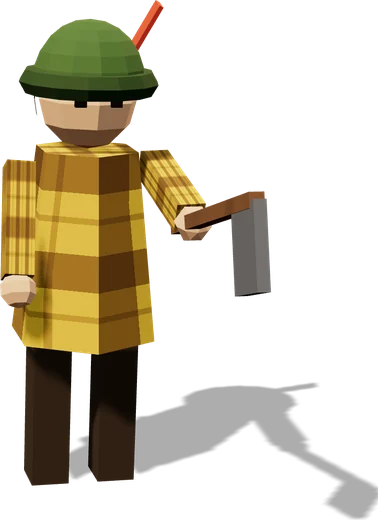
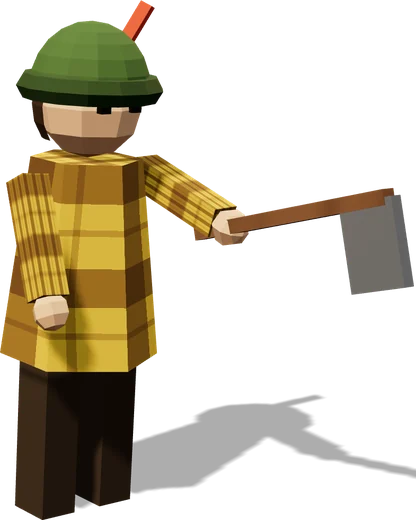
No inner line on the picture frames; woodcutter more side-on, figures on the line on Support and Privacy
Claude-Session: https://claude.ai/code/session_01KSdcztEkEeGoCTCNjYvWmU

diff --git a/style.css b/style.css
@@ -54,7 +54,6 @@ section { position: relative }
 .lede .wrap { position: relative }
 .lede p { margin: 0; max-width: 28em; font-size: clamp(21px, 2.5vw, 27px); line-height: 1.45; color: #f3ead4 }
 .frame { position: relative; border: 2px solid rgba(227, 191, 102, .7); border-radius: 14px; overflow: hidden; background: #000; box-shadow: 0 0 0 1px rgba(0, 0, 0, .6), 0 10px 34px rgba(0, 0, 0, .6) }
-.frame::after { content: ''; position: absolute; inset: 3px; border: 1px solid rgba(227, 191, 102, .22); border-radius: 11px; pointer-events: none }
 .frame img, .frame video { width: 100%; height: auto; display: block }
 .head { margin: 0 0 30px; font: clamp(30px, 4.2vw, 42px)/1.1 var(--title); color: var(--gold); text-align: center }
 .head::after { content: ''; display: block; width: 140px; height: 2px; margin: 16px auto 0; background: linear-gradient(90deg, transparent, var(--gold), transparent) }
@@ -174,8 +173,8 @@ footer .tm { flex-basis: 100%; margin-top: 8px; font-size: 13px; opacity: .7 }
 .page { padding-bottom: 0 }
 .duel { display: flex; justify-content: space-between; align-items: flex-end; max-width: 720px; margin-top: 64px; position: relative }
 .duel::after { content: ''; position: absolute; left: -10%; right: -10%; bottom: 0; height: 22px; background: radial-gradient(ellipse at 50% 100%, rgba(80, 120, 50, .3), transparent 70%) }
-.duel img { height: 140px; width: auto; filter: drop-shadow(0 6px 10px rgba(0, 0, 0, .6)) }
-@media (max-width: 560px) { .duel img { height: 100px } }
+.duel img { --k: 140px; height: calc(var(--k) / (1 - var(--b, 0))); width: auto; margin-bottom: calc(var(--b, 0) * var(--k) / (1 - var(--b, 0)) * -1); filter: drop-shadow(0 6px 10px rgba(0, 0, 0, .6)) }
+@media (max-width: 560px) { .duel img { --k: 100px } }
 /* the town's figures stand apart, the raiders bunch up: the spearman a little over the horseman, the horseman well over the ballista (Jack) */
 .army .town img { margin-left: calc(var(--k) * .04); margin-right: calc(var(--k) * .04) }
 .army .foe img { margin-left: 0; margin-right: 0 }

diff --git a/support.html b/support.html
@@ -9,7 +9,7 @@
 <meta name="theme-color" content="#100e0a">
 <link rel="icon" href="/img/icon-64.png">
 <link rel="apple-touch-icon" href="/img/icon-180.png">
-<link rel="stylesheet" href="/style.css?v=5">
+<link rel="stylesheet" href="/style.css?v=6">
 </head>
 <body class="plain">
 <header class="top"><div class="wrap">
@@ -36,7 +36,7 @@
     <details><summary>How do I get a refund?</summary><p>Refunds are handled by Apple at <a href="https://reportaproblem.apple.com">reportaproblem.apple.com</a>.</p></details>
   </div>
 </div>
-<div class="wrap duel" aria-hidden="true"><img src="/img/fig/farmer.webp?v=4" alt="" loading="lazy"><img src="/img/fig/raider_sword.webp?v=4" alt="" loading="lazy"></div>
+<div class="wrap duel" aria-hidden="true"><img src="/img/fig/farmer.webp?v=6" alt="" loading="lazy" style="--b:0.029"><img src="/img/fig/raider_sword.webp?v=6" alt="" loading="lazy" style="--b:0.038"></div>
 </main>
 
 <footer><div class="wrap">

diff --git a/privacy.html b/privacy.html
@@ -9,7 +9,7 @@
 <meta name="theme-color" content="#100e0a">
 <link rel="icon" href="/img/icon-64.png">
 <link rel="apple-touch-icon" href="/img/icon-180.png">
-<link rel="stylesheet" href="/style.css?v=5">
+<link rel="stylesheet" href="/style.css?v=6">
 </head>
 <body class="plain">
 <header class="top"><div class="wrap">
@@ -49,7 +49,7 @@
   <h2>Contact</h2>
   <p><a href="mailto:support@castledefense.app">support@castledefense.app</a></p>
 </div>
-<div class="wrap duel" aria-hidden="true"><img src="/img/fig/chopper.webp?v=4" alt="" loading="lazy"><img src="/img/fig/raider_spear.webp?v=4" alt="" loading="lazy"></div>
+<div class="wrap duel" aria-hidden="true"><img src="/img/fig/chopper.webp?v=6" alt="" loading="lazy" style="--b:0.000"><img src="/img/fig/raider_spear.webp?v=6" alt="" loading="lazy" style="--b:0.221"></div>
 </main>
 
 <footer><div class="wrap">

diff --git a/404.html b/404.html
@@ -9,7 +9,7 @@
 <meta name="theme-color" content="#100e0a">
 <link rel="icon" href="/img/icon-64.png">
 <link rel="apple-touch-icon" href="/img/icon-180.png">
-<link rel="stylesheet" href="/style.css?v=5">
+<link rel="stylesheet" href="/style.css?v=6">
 </head>
 <body class="plain">
 <header class="top"><div class="wrap">

diff --git a/index.html b/index.html
@@ -14,7 +14,7 @@
 <meta name="theme-color" content="#100e0a">
 <link rel="icon" href="/img/icon-64.png">
 <link rel="apple-touch-icon" href="/img/icon-180.png">
-<link rel="stylesheet" href="/style.css?v=5">
+<link rel="stylesheet" href="/style.css?v=6">
 </head>
 <body>
 <header class="top"><div class="wrap">
